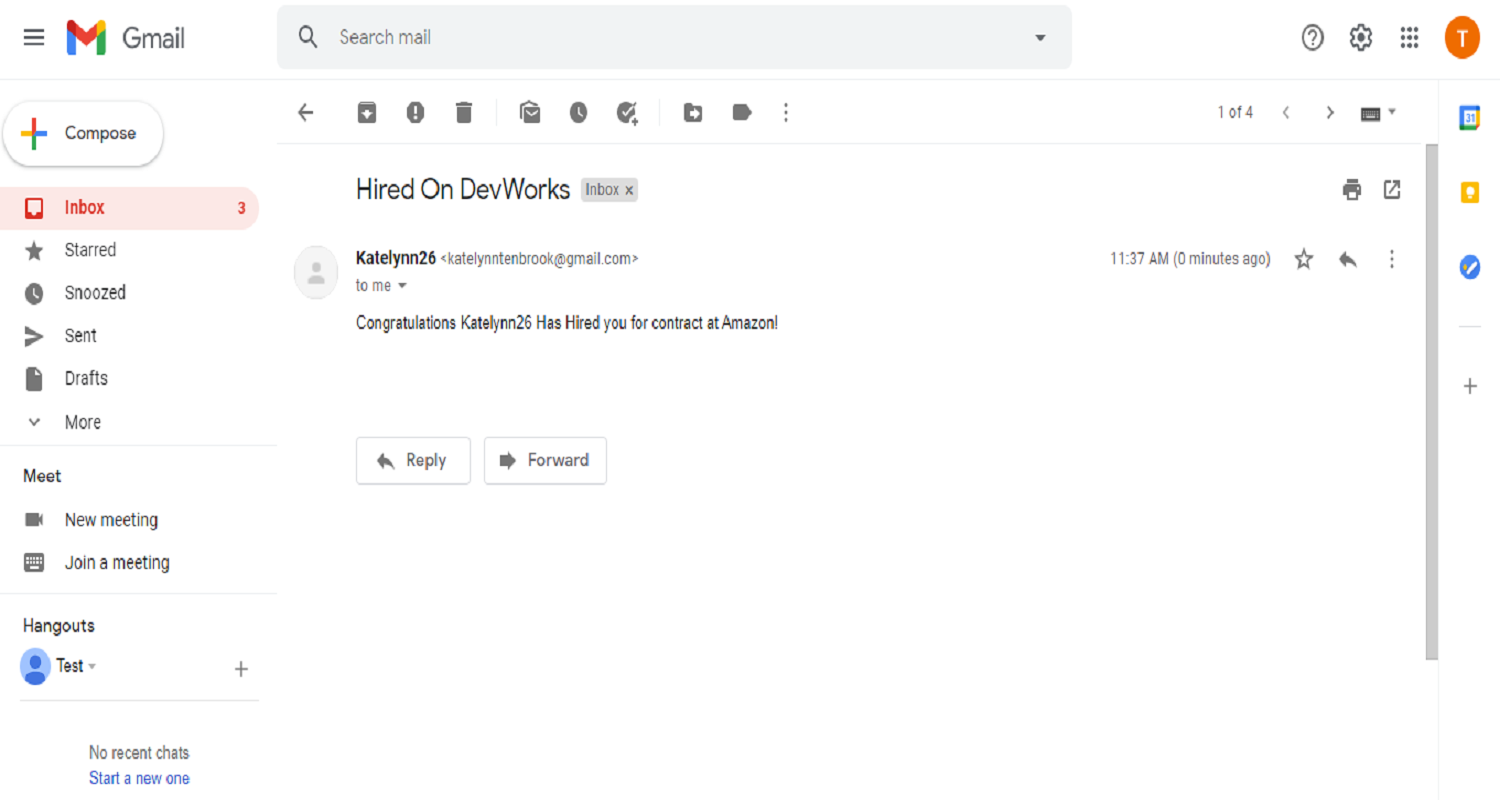
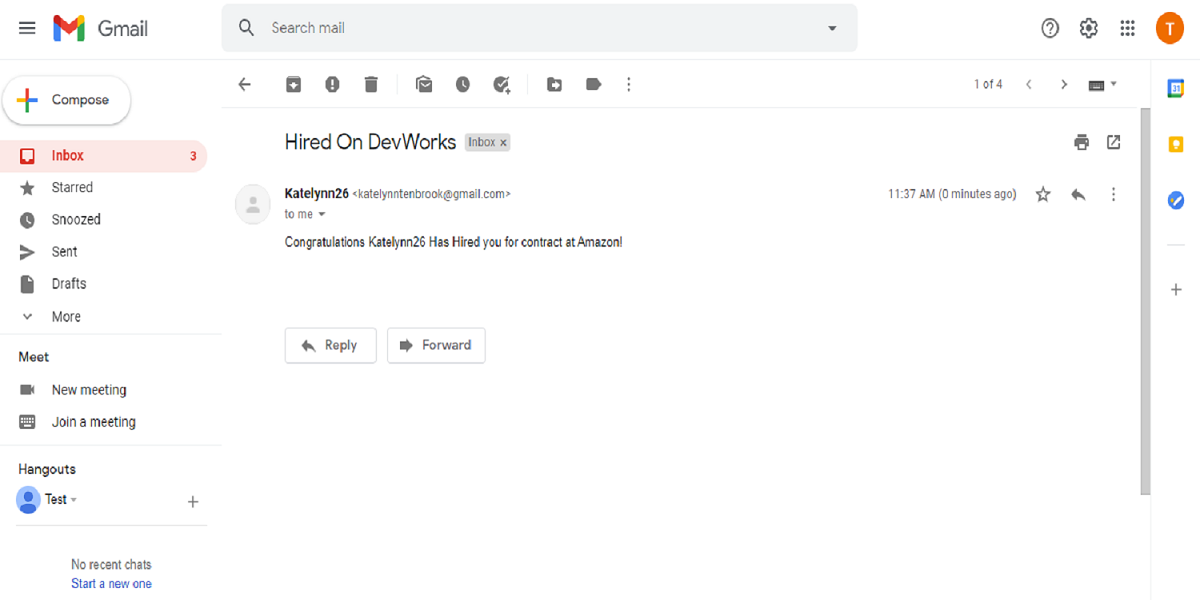
Resized photos

diff --git a/devWorks.html b/devWorks.html
@@ -45,7 +45,7 @@
     <!-- Full-width images with number text -->
     <div class="mySlides">
       <div class="numbertext">1 / 6</div>
-        <img src="images/devWorks/homeDW.png" style="width:100%">
+        <img src="images/devWorks/devworks.png" style="width:100%">
     </div>
   
     <div class="mySlides">
@@ -55,11 +55,11 @@
   
     <div class="mySlides">
       <div class="numbertext">3 / 6</div>
-        <img src="images/devWorks/MyListings.png" style="width:100%">
+        <img src="images/devWorks/CreateEmployer.png" style="width:100%">
     </div>
     <div class="mySlides">
         <div class="numbertext">4 / 6</div>
-          <img src="images/devWorks/RecomDevs.png" style="width:100%">
+          <img src="images/devWorks/Recommended.png" style="width:100%">
       </div>
     
       <div class="mySlides">
@@ -69,7 +69,7 @@
     
       <div class="mySlides">
         <div class="numbertext">6 / 6 </div>
-          <img src="images/devWorks/MyListings.png" style="width:100%">
+          <img src="images/devWorks/Register.png" style="width:100%">
       </div>
   
     <!-- Next and previous buttons -->
